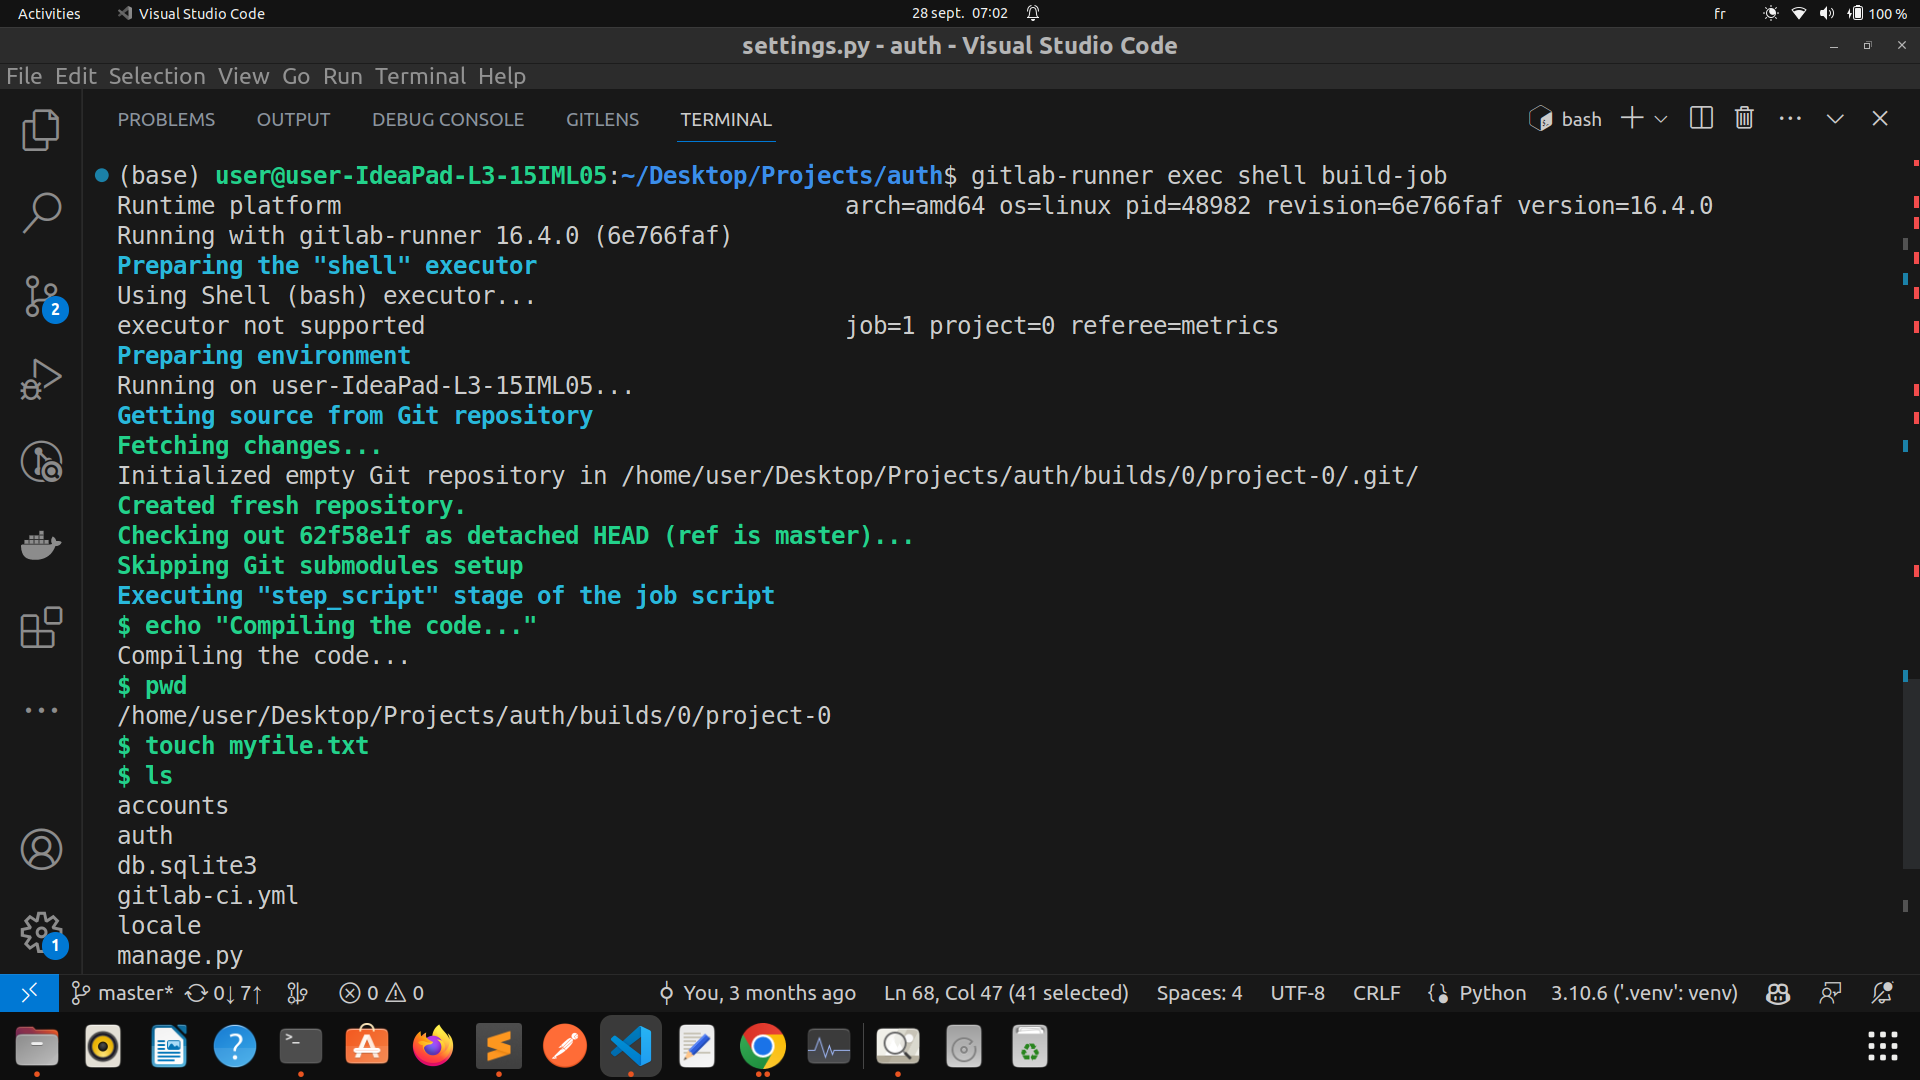
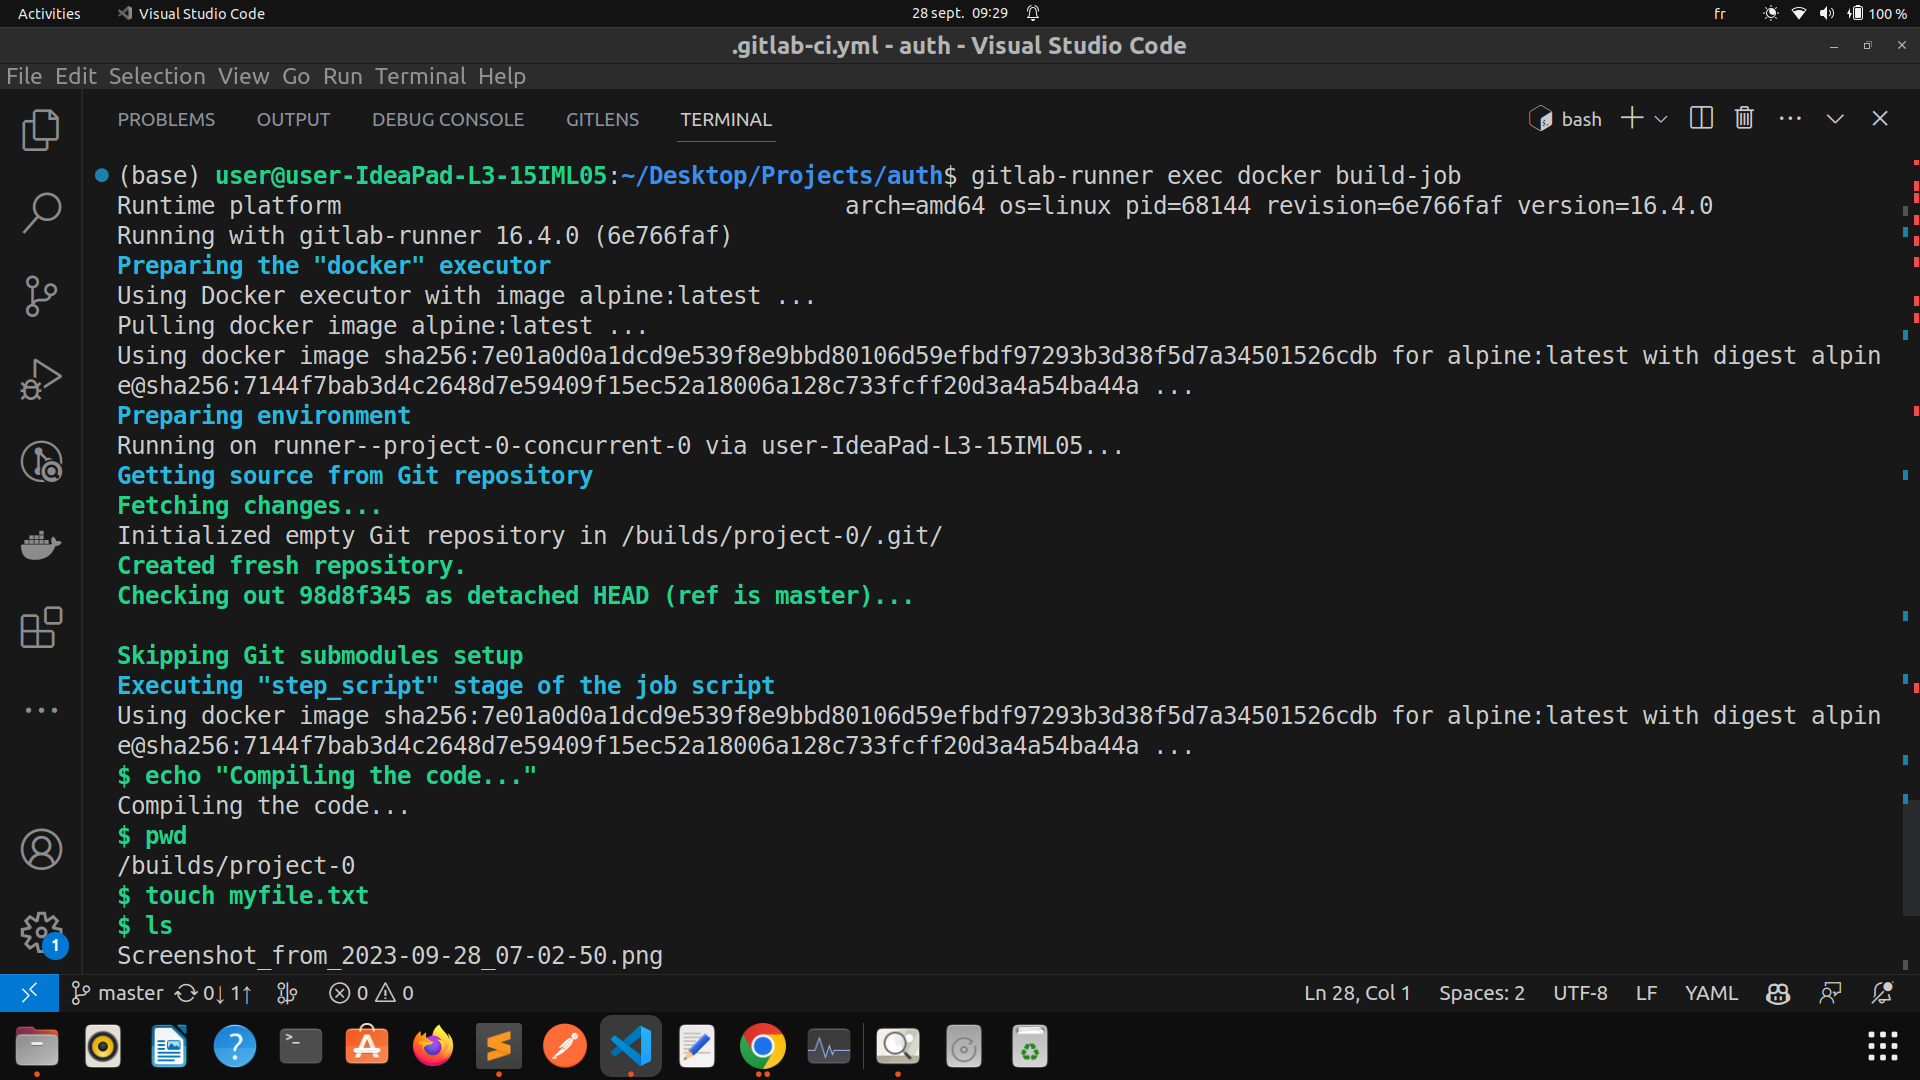
Fix gitlab-ci file to make 'unit-test-job only be run after the build-job has completed successfully,

diff --git a/readme.md b/readme.md
@@ -87,11 +87,15 @@ Running in system-mode.
 
 
 ```
-$ gitlab-runner exec shell build-job
+$ gitlab-runner exec docker build-job
 ```
 
 **Job succeeded**
 
 ![](https://gitlab.com/jaweherbensalah/DRF_Authentication/-/raw/master/Screenshot_from_2023-09-28_07-02-50.png?ref_type=heads)
 
+```
+$ gitlab-runner exec docker unit-test-job
+```
 
+**Job succeeded**
